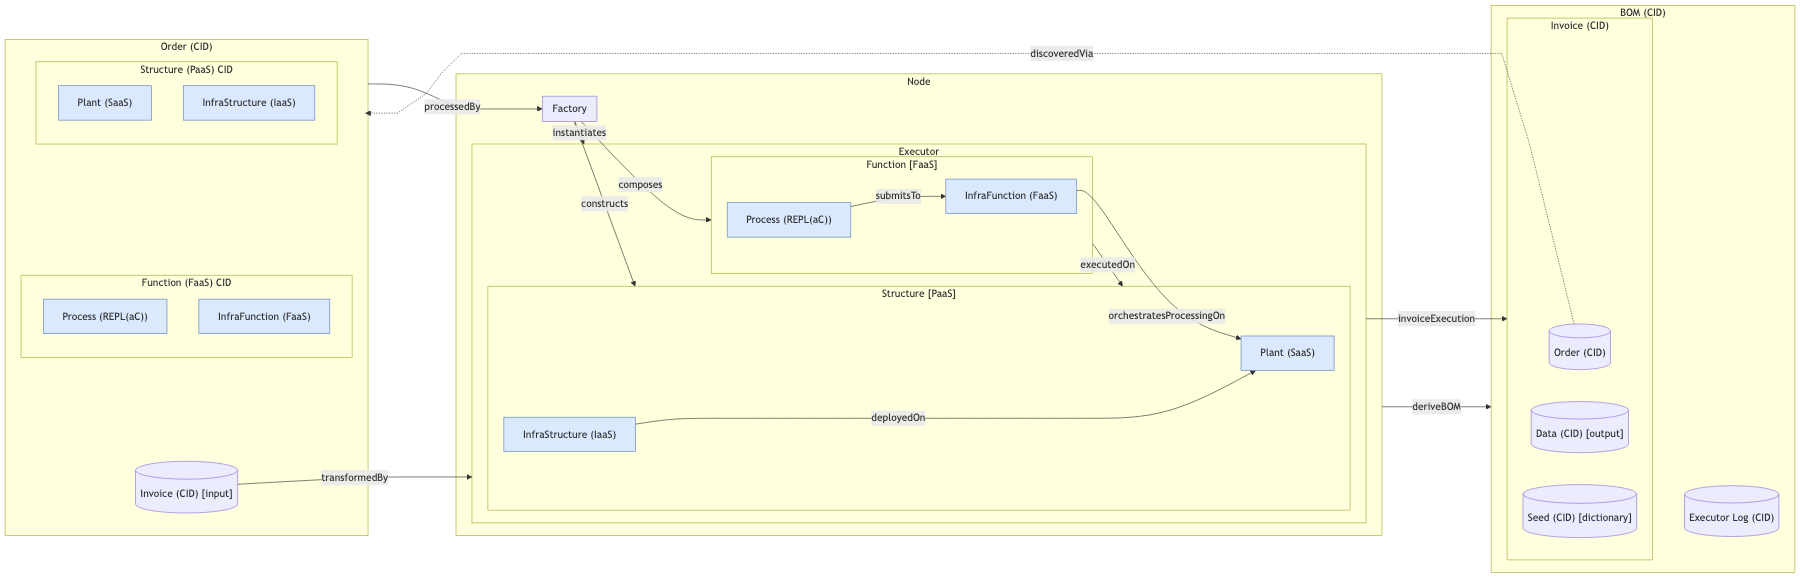
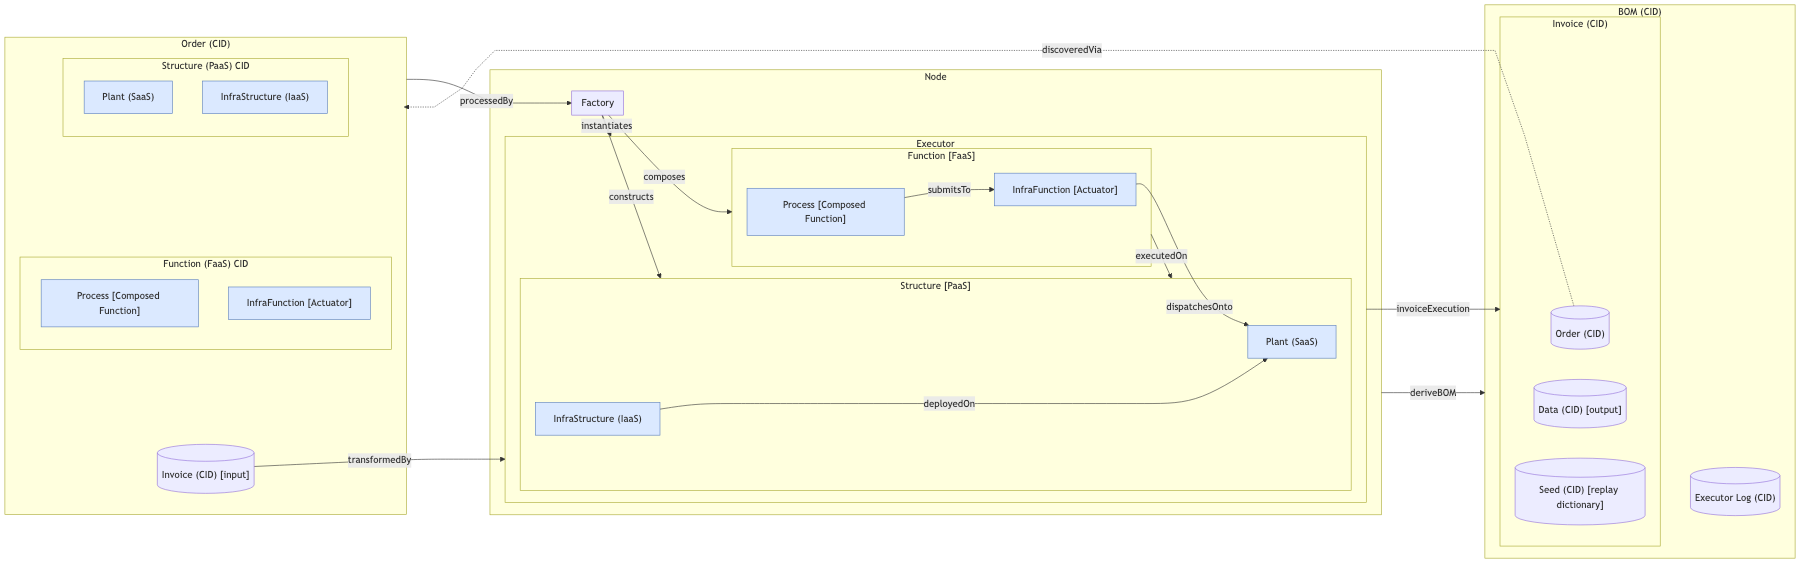
Document Composed Function and Actuator
docs(readme,design,NodeProductFlow,PLANTs,BOM,DEMO,INTEROP):
 rename Process [REPL(aC)] to Process [Composed Function] and
 InfraFunction [FaaS] to InfraFunction [Actuator]; clarify REPLaC UI;
docs(images): refresh NodeProductFlow.png

Changed region(s): [[0.0, 0.0, 1.0, 0.9964], [0.3733, 0.302, 0.6533, 0.4227], [0.3111, 0.302, 0.3733, 0.3623]]

diff --git a/docs/DESIGN.md b/docs/DESIGN.md
@@ -23,9 +23,9 @@ The Quantum's "smallest unit of architecture... with high functional cohesion" i
 
 - `order_cid` resolves to `{invoice_cid, function_cid, structure_cid}` - the Order's Input Invoice, Function (as Code), and Structure (as Code), each independently content-addressed.
 - `structure_cid` resolves to `{root_cid, plant_cid, infrastructure_cid}` - Structure (**PaaS** as **IaC**) is CID-ed as an apply-complete pairing: compose-root glue (`root_cid`: `main.tf` / providers / module wiring), the Plant (SaaS) it provisions (`plant_cid`), and the InfraStructure (IaaS) that provisions it (`infrastructure_cid`).
-- `function_cid` resolves to `{process_cid, infrafunction_cid, process_source_cid, infrafunction_source_cid}` - Function (FaaS) is CID-ed as a hybrid pairing: bind JSON for Process [REPL(aC)] (transport callables plus a Transfer Higher-Order Function [tHOF] — the input→output data transform) and the InfraFunction (FaaS) actuator, plus directory CIDs of the Process / InfraFunction source packages. Each slot leaf CID is named-bind JSON (`source_cid` / `module` / `qualname`) for stock public callables, or pickle bytes for REPL one-offs.
+- `function_cid` resolves to `{process_cid, infrafunction_cid, process_source_cid, infrafunction_source_cid}` - Function [FaaS] is CID-ed as a hybrid pairing: bind JSON for Process [Composed Function] (transport callables plus a Transfer Higher-Order Function [tHOF] — the input→output data transform) and InfraFunction [Actuator], plus directory CIDs of the Process / InfraFunction source packages. Each slot leaf CID is named-bind JSON (`source_cid` / `module` / `qualname`) for stock public callables, or pickle bytes for REPL one-offs. Orders are authored via the REPLaC Workflow UI of Function [FaaS] (Marimo in this demo).
 
-The **Factory** reconstitutes this Quantum at runtime with the same composition it was CID-ed with: it composes `Function` and constructs `Structure` from the Order's `function_cid`/`structure_cid`, then instantiates the **Executor** with them as its dependencies. Each in turn composes its own CID-ed sub-component the same way - `Structure` composes its `Plant` from its `InfraStructure`, and `Function` composes its `Processor` from its `InfraFunction` - so Function (FaaS) executes on Structure (PaaS) by InfraFunction (FaaS) dispatching the tHOF (`integrated_subproc`) submitted by Process [REPL(aC)] onto Plant (SaaS), while ingress / integration_cache / egress run as local transport around that dispatch, exactly as the Quantum's applied disciplines describe below. Composition stays on the Order CID graph (sequential Executor stages); interim Control-Feedback Loop feedback uses Invoice stage CIDs (`ingress_data_cid`, `integration_data_cid`, `data_cid`) until Seed is implemented. The Executor itself - not a layer above it - is what produces the resulting **Invoice CID**, so the whole Order-in/Invoice-out cycle stays within the one independently-deployable, functionally-cohesive unit the Quantum principle calls for. (* **[CID-level details](BOM.md)**, * **[Lineage-of-Provenance context](LineageOfProvenance.md)**)
+The **Factory** reconstitutes this Quantum at runtime with the same composition it was CID-ed with: it composes `Function` and constructs `Structure` from the Order's `function_cid`/`structure_cid`, then instantiates the **Executor** with them as its dependencies. Each in turn composes its own CID-ed sub-component the same way - `Structure` composes its `Plant` from its `InfraStructure`, and `Function` composes its `Processor` from its `InfraFunction` - so Function [FaaS] executes on Structure [PaaS] by InfraFunction [Actuator] dispatching the tHOF (`integrated_subproc`) submitted by Process [Composed Function] onto Plant [SaaS], while ingress / integration_cache / egress run as local transport around that dispatch, exactly as the Quantum's applied disciplines describe below. Composition stays on the Order CID graph (sequential Executor stages); interim Control-Feedback Loop feedback uses Invoice stage CIDs (`ingress_data_cid`, `integration_data_cid`, `data_cid`) until Seed is implemented. The Executor itself - not a layer above it - is what produces the resulting **Invoice CID**, so the whole Order-in/Invoice-out cycle stays within the one independently-deployable, functionally-cohesive unit the Quantum principle calls for. (* **[CID-level details](BOM.md)**, * **[Lineage-of-Provenance context](LineageOfProvenance.md)**)
 
 ### Collaborative value of CATs Architectural Quantum:
 The operation and maintenance of CATs’ Data Products on a Data Mesh can occur between independent teams that will 
@@ -38,14 +38,14 @@ and maintain the different portions of the entire Web2 cloud service model based
 * Applied discipline for **Functions (FaaS)**
   * **Data Science** involves exploratory data analysis (EDA), data cleaning and visualization, and 
   predictive modeling / machine learning to inform Control Plane decisions and strategies. 
-  * **Machine Learning Engineering** involves the development, training, performance optimizing, and deployment of machine learning models as a scalable **Integration** function composed in Process [REPL(aC)] and dispatched onto Plant by InfraFunction (FaaS). 
-  * **Data Analysis** involves evaluating performance of and implimenting the Process [REPL(aC)] using a data processing language and sheduling them for submition to the InfraFunction [FaaS] for execution.
+  * **Machine Learning Engineering** involves the development, training, performance optimizing, and deployment of machine learning models as a scalable **Integration** function composed in Process [Composed Function] and dispatched onto Plant by InfraFunction [Actuator]. 
+  * **Data Analysis** involves evaluating performance of and implimenting the Process [Composed Function] using a data processing language and sheduling them for submition to the InfraFunction [Actuator] for execution.
   * The CAT Order is updated with the inclusion of resulting mutated Functions (FaaS) for execution processed by CATs 
   Factory Client.
 * Applied discipline for **Structure (PaaS** as **IaC)**
   * **Data Platform / Cloud / Infrastructure Engineering** involves the design and IaC development, and automation of the 
   provisioning and management of Structure (PaaS) executing Function. This is accomplished using IaC to provision 
-  InfraStructure (IaaS) as the execution paradigm of the Plant (SaaS) as well as contributing to InfraFunctions’ 
-  (FaaS) execution configurations of Plant (SaaS) operations.
+  InfraStructure (IaaS) as the execution paradigm of the Plant (SaaS) as well as contributing to InfraFunction
+  [Actuator] execution configurations of Plant (SaaS) operations.
 
 ### [**Orginizational Value**](./ORG.md)

diff --git a/docs/NodeProductFlow.md b/docs/NodeProductFlow.md
@@ -8,19 +8,19 @@
 2. The "Node" consumes an "Order" containing an input "Invoice" of input data to be processed as well as the Architectural Quantum's functional domain components that process Invoiced data; The content of the Order CID to be processed by the Node's "Factory" consists of the following: (*)
    - **A.** the CID-ed input Invoice as is within `data/input/data/*`
    - **B.** the CID-ed Architectural Quantum's functional domain components:
-     - **a.** "Function [FaaS]" consists of "Process [REPL(aC)]" and "InfraFunction [FaaS]" as its dependency
-       - Function [FaaS] (as Code) is CID-ed for which the contents consist of CIDs for Process [REPL(aC)] and InfraFunction [FaaS]
-       - Process [REPL(aC)] is a *Read-Eval-Print Loop as Code* (such as a Marimo notebook UI) that composes and submits callables: transport **port** callables (ingress, integration_cache, egress — each receives Function-owned `TransportPort`) plus a Transfer Higher-Order Function / tHOF (`integrated_subproc` — Plant-agnostic `ComputePort.run_transfer`; this demo’s Structure wires `RayComputePort` in the job entrypoint). Process itself is the composer, not a tHOF; peering mutate is Structure TF (`ipfs_transport_peering` / `TransportContext.ensure_peered`), not Process heal. Compose with **named imports** of the Process public surface only (never `import *`).
+     - **a.** "Function [FaaS]" consists of "Process [Composed Function]" and "InfraFunction [Actuator]" as its dependency
+       - Function [FaaS] (as Code) is CID-ed for which the contents consist of CIDs for Process [Composed Function] and InfraFunction [Actuator]
+       - Process [Composed Function] is the composed callable graph (FaaS-composer analogue): transport **port** callables (ingress, integration_cache, egress — each receives Function-owned `TransportPort`) plus a Transfer Higher-Order Function / tHOF (`integrated_subproc` — Plant-agnostic `ComputePort.run_transfer`; this demo’s Structure wires `RayComputePort` in the job entrypoint). Process itself is the composition, not a tHOF and not the notebook UI; peering mutate is Structure TF (`ipfs_transport_peering` / `TransportContext.ensure_peered`), not Process heal. Orders are authored via the **REPLaC (REPL as Code) Workflow UI** of Function [FaaS] (this demo: Marimo). Compose with **named imports** of the Process public surface only (never `import *`).
      - **b.** "Structure [PaaS]" is Function's infrastructure dependency and consists of "Plant [SaaS]" and Plant's "InfraStructure [IaaS]" infrastructure dependency
        - Structure [PaaS] (as Code) is CID-ed for which the contents consist of Plant [SaaS] and InfraStructure [IaaS] CIDs
 3. The Node's "Factory" processes an Order to produce "Executor" of an Architectural Quantum by composing Function [FaaS], constructing Structure [PaaS], then instantiating Executors with Function [FaaS] & Structure [PaaS] as its dependencies / parameters
 4. The Executor is a composition of Architectural Quantum execution that executes and Invoices the ephemeral execution of the Architectural Quantum.
-   - **A.** the Executor executes the aforemention composition as a Function [FaaS] executing on Structure [PaaS]: transport port callables run locally with a narrowed `TransportPort`; InfraFunction [FaaS] (the actuator) dispatches the tHOF onto Plant via `PlantPort` (`Plant.plant_port()` → `RayPlantPort` for this demo) with scratch via `ObjectStore` / `JobHandle`; in-job entrypoint wires `ComputePort`
-   - **B.** the Executor Invoices the ephemeral execution of the Architectural Quantum by producing a CID-ed Invoice containing the original CID-ed Order, the CID-ed output Data (`data_cid`), interim stage CIDs (`ingress_data_cid`, `integration_data_cid`), and a (non-deterministic processing) Seed (dictionary for Process [REPL(aC)]) — **Seed is specified but not yet populated** (`seed_cid` remains null; tracked by [#187](https://github.com/DynamicalSystemsGroup/cats/issues/187)); stage CIDs on the Invoice are the interim feedback surface
+   - **A.** the Executor executes the aforemention composition as a Function [FaaS] executing on Structure [PaaS]: transport port callables run locally with a narrowed `TransportPort`; InfraFunction [Actuator] dispatches the tHOF onto Plant via `PlantPort` (`Plant.plant_port()` → `RayPlantPort` for this demo) with scratch via `ObjectStore` / `JobHandle`; in-job entrypoint wires `ComputePort`
+   - **B.** the Executor Invoices the ephemeral execution of the Architectural Quantum by producing a CID-ed Invoice containing the original CID-ed Order, the CID-ed output Data (`data_cid`), interim stage CIDs (`ingress_data_cid`, `integration_data_cid`), and a (non-deterministic processing) Seed (Function/Process replay dictionary) — **Seed is specified but not yet populated** (`seed_cid` remains null; tracked by [#187](https://github.com/DynamicalSystemsGroup/cats/issues/187)); stage CIDs on the Invoice are the interim feedback surface
 5. The Node produces a CID-ed BOM containing an CID-ed Invoice (with `structure_as_executed_cid` nesting observed Plant / ObjectStore state), CID-ed Executor execution "logs", and `node_uri` (*). Full Nest tree: [`BOM.md` CAT Node HTTP BOM response](BOM.md#cat-node-http-bom-response).
 
 ### Notes (*):
 
   - **2.** The Order is intended to be consumed from within a "BOM" hosted on a registry; i.e. - discovered via that BOM's "invoice.order_cid" - rather than supplied out-of-band; **this registry is not yet implemented**, such that the Node's `/cat/node/init` endpoint accepts the target `order_cid` directly as input today, standing in for the not-yet-built "look up a BOM on the registry, then consume its Order" step
-  - **4B.** Until Seed exists, compose on the Order CID graph and feedback via Invoice/BOM stage CIDs; when Seed lands, it holds the Process replay dictionary and Invoice keeps Order + output data + `seed_cid`
+  - **4B.** Until Seed exists, compose on the Order CID graph and feedback via Invoice/BOM stage CIDs; when Seed lands, it holds the Function/Process replay dictionary and Invoice keeps Order + output data + `seed_cid`
   - **5.** CIDs of BOMs are intended to be published to the registry (0c) for future Orders to be consumed from

diff --git a/docs/BOM.md b/docs/BOM.md
@@ -2,7 +2,7 @@
 
 Each of the Architectural Quantum's four components (Function, InfraFunction, Structure, InfraStructure) is content-addressed independently, then paired back together as a small JSON object so the Order records both halves under a single CID:
 
-- `order.function_cid` resolves to `{process_cid, infrafunction_cid, process_source_cid, infrafunction_source_cid}` — hybrid Function pairing. `process_cid` / `infrafunction_cid` are bind JSON maps of `*_subproc_cid` → **leaf CID** (still a single string per slot). Process [REPL(aC)] composes (`ingress_subproc_cid`, `integration_cache_subproc_cid`, `integrated_subproc_cid`, `egress_subproc_cid`); only `integrated_subproc_cid` is the Transfer Higher-Order Function (tHOF) — Plant-agnostic `ComputePort.run_transfer` (see [transfer function](https://en.wikipedia.org/wiki/Transfer_function)); ingress / integration_cache / egress are transport **port** callables that require Executor-wired `TransportPort`. `infrafunction_cid` bind JSON holds the actuator (`infrafunction_subproc_cid`). Each leaf CID is either **named-bind JSON** `{"source_cid","module","qualname"}` (stock public callables from `create_order_request` / `linkProcess`) or **pickle bytes** (REPL escape hatch for non-stock callables). `process_source_cid` / `infrafunction_source_cid` are whole-directory CIDs of `function/process/` and `function/infrafunction/`; named binds must pin those package CIDs. `getEnhancedBom()` materializes the source trees; Executor `resolve_subproc` imports named binds or unpickles. Recreate Orders created before source keys existed — `getEnhancedBom()` / `linkProcess()` / Executor fail loud if they are missing. Compose Orders with **named imports** of the Process public surface only (`ingress`, `egress`, `integration_cache`, `function_*`, `process_*` — see `process.__all__`); never `from data.input.function.process import *`.
+- `order.function_cid` resolves to `{process_cid, infrafunction_cid, process_source_cid, infrafunction_source_cid}` — hybrid Function pairing. `process_cid` / `infrafunction_cid` are bind JSON maps of `*_subproc_cid` → **leaf CID** (still a single string per slot). Process [Composed Function] holds (`ingress_subproc_cid`, `integration_cache_subproc_cid`, `integrated_subproc_cid`, `egress_subproc_cid`); only `integrated_subproc_cid` is the Transfer Higher-Order Function (tHOF) — Plant-agnostic `ComputePort.run_transfer` (see [transfer function](https://en.wikipedia.org/wiki/Transfer_function)); ingress / integration_cache / egress are transport **port** callables that require Executor-wired `TransportPort`. `infrafunction_cid` bind JSON holds InfraFunction [Actuator] (`infrafunction_subproc_cid`). Each leaf CID is either **named-bind JSON** `{"source_cid","module","qualname"}` (stock public callables from `create_order_request` / `linkProcess`) or **pickle bytes** (REPL escape hatch for non-stock callables). `process_source_cid` / `infrafunction_source_cid` are whole-directory CIDs of `function/process/` and `function/infrafunction/`; named binds must pin those package CIDs. `getEnhancedBom()` materializes the source trees; Executor `resolve_subproc` imports named binds or unpickles. Recreate Orders created before source keys existed — `getEnhancedBom()` / `linkProcess()` / Executor fail loud if they are missing. Compose Orders with **named imports** of the Process public surface only (`ingress`, `egress`, `integration_cache`, `function_*`, `process_*` — see `process.__all__`); never `from data.input.function.process import *`.
 - `order.structure_cid` resolves to `{root_cid, plant_cid, infrastructure_cid}` — apply-complete Structure pairing. `root_cid` is the directory CID of compose glue only (`main.tf`, `outputs.tf`, `.terraform.lock.hcl` — providers + `module "plant"` / `module "infrastructure"` wiring). `plant_cid` is the CID of the whole `plant/` Terraform directory (kind cluster + Helm releases, `plant_utils.py` / `RayPlantPort`, and Ray landing `ray_job_result_entrypoint.py` + `ray_compute_utils.py` / `RayComputePort` that constitute Plant, SaaS); `infrastructure_cid` is the CID of the whole `infrastructure/` Terraform directory (Docker Kubo transport + `transport_utils.py` / `TransportContext`, MinIO + `obj_store_utils.py` / `JobHandle`, host ContentStore helpers that constitute InfraStructure, IaaS). Recreate Orders created before `root_cid` existed — `getEnhancedBom()` fails loud if it is missing.
 
 Both are built in `create_order_request()` and unpacked back onto disk by `getEnhancedBom()` so the fetched Structure stays directly `terraform apply`-able from the Order alone (root files + `plant/` + `infrastructure/`) and Function source packages land under `function/process/` + `function/infrafunction/`. `root_cid`/`plant_cid`/`infrastructure_cid` and `process_source_cid`/`infrafunction_source_cid` are each whole-directory CIDs (via `cidDir()`) — `ipfs ls`-ing plant/infra lists that Terraform module's actual files (e.g. `main.tf`, `outputs.tf`, `variables.tf`, `plant_utils.py`, `ray_job_result_entrypoint.py`, `ray_compute_utils.py` for `plant_cid`; `main.tf`, `outputs.tf`, `minio_compose.yaml`, `ipfs_transport_compose.yaml`, `transport_utils.py`, `content_store_utils.py`, `obj_store_utils.py` for `infrastructure_cid`); `ipfs ls`-ing a Function source CID lists that package's Python modules. `process_cid`/`infrafunction_cid` remain CIDs of small JSON objects mapping slots to leaf CIDs. A real `function_cid` fetched via `ipfs cat` looks like:

diff --git a/docs/PLANTs.md b/docs/PLANTs.md
@@ -47,7 +47,7 @@ The CAT Node doesn't reduce to one single type from the "Heavy industry and engi
 | Layer                                                          | Type match                            |
 | -------------------------------------------------------------- | ------------------------------------- |
 | Factory (assembles the Executor from Order components)         | **Manufacturing Plant**               |
-| Function [FaaS] (Process [REPL(aC)] + InfraFunction [FaaS])    | **Plant (control theory)**            |
+| Function [FaaS] (Process [Composed Function] + InfraFunction [Actuator]) | **Plant (control theory)**     |
 | Structure [PaaS] (Plant [SaaS] + InfraStructure [IaaS])        | **Power Plant** (Power Station sense) |
 
 
@@ -74,11 +74,11 @@ Per `[NodeProductFlow.md](NodeProductFlow.md)` step 0B, the Architectural Quantu
 `Structure [PaaS]`. It isn't a single type; it's the *union* of the next two rows, since it's defined as
 Function's dependency on Structure, not a standalone facility:
 
-- **Function [FaaS]** (`Process [REPL(aC)]` + `InfraFunction [FaaS]`) -> **Plant (control theory)** as a whole -
-"the combination of process and actuator" is verbatim Function's own composition (Process [REPL(aC)] = the
-Read-Eval-Print Loop as Code that composes and submits transport/`ComputePort` callables plus a Plant-agnostic tHOF = the "process"; InfraFunction = the actuator dispatching that tHOF onto compute via `PlantPort`).
-  - `Process [REPL(aC)]` alone -> the **process** half of Plant (control theory)
-  - `InfraFunction [FaaS]` alone -> the **actuator** half of Plant (control theory)
+- **Function [FaaS]** (`Process [Composed Function]` + `InfraFunction [Actuator]`) -> **Plant (control theory)** as a whole -
+"the combination of process and actuator" is verbatim Function's own composition (Process [Composed Function] = the
+composed callable graph / FaaS-composer analogue: transport/`ComputePort` callables plus a Plant-agnostic tHOF = the "process"; InfraFunction [Actuator] = the actuator dispatching that tHOF onto compute via `PlantPort`). Orders are authored via the REPLaC Workflow UI of Function [FaaS] (Marimo in this demo).
+  - `Process [Composed Function]` alone -> the **process** half of Plant (control theory)
+  - `InfraFunction [Actuator]` alone -> the **actuator** half of Plant (control theory)
 - **Structure [PaaS]** (`Plant [SaaS]` + `InfraStructure [IaaS]`) -> **Power plant**, specifically the Power
 Station generation + Transmission & Distribution (T&D) model (per the caveat above).
   - `Plant [SaaS]` alone (this demo: Ray/KubeRay via `RayPlantPort`) -> the **generation** side of that Power Station model - not a
@@ -93,7 +93,7 @@ Station generation + Transmission & Distribution (T&D) model (per the caveat abo
 
 Doesn't fit any of the six categories itself. It doesn't generate, transmit, manufacture, or process anything on
 its own; it's the *runtime that operates* the other plants - dispatching Function [FaaS] onto Structure [PaaS]
-via InfraFunction orchestrating Plant [SaaS] (`[NodeProductFlow.md](NodeProductFlow.md)` step 2a). Structurally
+via InfraFunction [Actuator] dispatching onto Plant [SaaS] (`[NodeProductFlow.md](NodeProductFlow.md)` step 2a). Structurally
 it's closer to a plant *operator/control-room process* than to a plant itself - it's the thing standing between
 the Manufacturing-plant output (a composed Function+Structure pair) and those components' own actual execution.
 
@@ -105,8 +105,8 @@ the Manufacturing-plant output (a composed Function+Structure pair) and those co
 | CAT Node (whole)      | ✓ (via Function)       | ✓ (via Factory)     | -              | ✓ (via Structure)   | -              | -               |
 | Factory               | -                      | **✓**               | -              | -                   | -              | -               |
 | Architectural Quantum | ✓ (Function half)      | -                   | -              | ✓ (Structure half)  | -              | -               |
-| Process [REPL(aC)]    | ✓ ("process" half)     | -                   | -              | -                   | -              | -               |
-| InfraFunction [FaaS]  | ✓ ("actuator" half)    | -                   | -              | -                   | -              | -               |
+| Process [Composed Function] | ✓ ("process" half) | -                   | -              | -                   | -              | -               |
+| InfraFunction [Actuator] | ✓ ("actuator" half) | -                   | -              | -                   | -              | -               |
 | Structure [PaaS]      | -                      | -                   | -              | **✓**               | -              | -               |
 | Plant [SaaS]          | -                      | -                   | -              | ✓ (generation half) | -              | -               |
 | InfraStructure [IaaS] | -                      | -                   | **✓**          | ✓ (Transmission & Distribution (T&D) half) | -              | -               |

diff --git a/README.md b/README.md
@@ -115,13 +115,13 @@ CAT Kernel
 
 #### Quantum Architecture Description as a [Minimal Federated Operating Model](https://www.starburst.io/blog/data-mesh-book-bulletin-principle-of-federated-computational-governance/)
 
-- **Function [FaaS]** is a Function-as-a-Service for scalable Data Processing and analytics whose **Process [REPL(aC)]** composes and submits transport callables plus a Transfer Higher-Order Function (tHOF) for **InfraFunction [FaaS]** to dispatch. *Functions* are deployed on **Structure [PaaS]**; mutating either *Process* or *InfraFunction* updates the CAT **Order** in alignment with CATs *Architectural Quantum’s* Functionality
-  - **Process [REPL(aC)]** is a *Read-Eval-Print Loop as Code* (such as a Marimo notebook UI, e.g. `[cats_demo.py](cats_demo.py)`) that composes **ingress / integration_cache / egress** (transport) and `**integrated_subproc`** — the tHOF, i.e. the input→output data transform ([transfer function](https://en.wikipedia.org/wiki/Transfer_function)), often higher-order because it applies a batch function (e.g. via Ray `map_batches`). Process is the composer/submitter, not itself a tHOF. Mutating a ***Function's* Process [REPL(aC)]** composition produces a new **Order** whose `function_cid` reflects that update, for the Node's Factory to process on the next execution (*)
-  - **InfraFunction [FaaS]** is the actuator / Data Processing Orchestrator that receives the tHOF **Process [REPL(aC)]** submits and dispatches it onto the Plant (SaaS); transport callables run locally around that dispatch, not as Plant jobs
-    - Mutating InfraFunction (FaaS)'s dispatch configuration produces a new Order whose updated `function_cid` carries the updated actuator, alongside any Process-composed callable CIDs and any resulting `structure_cid` update reflecting the **Plant [SaaS]** it now targets (*)
+- **Function [FaaS]** is a Function-as-a-Service for scalable Data Processing and analytics: **Process [Composed Function]** + **InfraFunction [Actuator]**, authored via the **REPLaC (REPL as Code) Workflow UI** of Function [FaaS] (this demo: Marimo, e.g. [`cats_demo.py`](cats_demo.py)). *Functions* are deployed on **Structure [PaaS]**; mutating either *Process* or *InfraFunction* updates the CAT **Order** in alignment with CATs *Architectural Quantum’s* Functionality
+  - **Process [Composed Function]** is the composed callable graph (FaaS-composer analogue): **ingress / integration_cache / egress** (transport) plus `**integrated_subproc`** — the tHOF, i.e. the input→output data transform ([transfer function](https://en.wikipedia.org/wiki/Transfer_function)), often higher-order because it applies a batch function (e.g. via Ray `map_batches`). Process is the composition, not the notebook UI and not itself a tHOF. Mutating a ***Function's* Process [Composed Function]** produces a new **Order** whose `function_cid` reflects that update, for the Node's Factory to process on the next execution (*)
+  - **InfraFunction [Actuator]** receives the tHOF **Process [Composed Function]** submits and dispatches it onto the Plant (SaaS); transport callables run locally around that dispatch, not as Plant jobs
+    - Mutating InfraFunction [Actuator]'s dispatch configuration produces a new Order whose updated `function_cid` carries the updated actuator, alongside any Process-composed callable CIDs and any resulting `structure_cid` update reflecting the **Plant [SaaS]** it now targets (*)
 - **Structure [PaaS(as IaC)]** provisions and maintains the **Plant [SaaS]** as **Function’s [FaaS]** scalable execution environment. 
   - **Plant [SaaS]** is composed from **InfraStructure [IaaS]** as **Structure's** dynamically scaled execution environment of 
-  **Function [FaaS]** — the runtime onto which **InfraFunction [FaaS]** dispatches the tHOF (`integrated_subproc`) submitted by **Process [REPL(aC)]**
+  **Function [FaaS]** — the runtime onto which **InfraFunction [Actuator]** dispatches the tHOF (`integrated_subproc`) submitted by **Process [Composed Function]**
   - **InfraStructure (IaaS)** provisions and maintains the dynamically scaled infrastructure that composes a Plant (SaaS).
     - The CAT Order is updated in alignment with event-driven functionality and operations: mutating InfraStructure 
     (IaaS)'s provisioning produces a new Order with an updated `structure_cid` (*)

diff --git a/docs/DEMO.md b/docs/DEMO.md
@@ -45,7 +45,7 @@ make node-stop
 
 ##### 4. Establish Data (CAT) Mesh *in Terminal B*: [Demo](../cats_demo.py)
 
-Execute CATs on a single-node Mesh via Marimo notebook — this is Process [REPL(aC)]: a Read-Eval-Print Loop as Code that composes and submits transport callables plus a Transfer Higher-Order Function (tHOF, `integrated_subproc`) for InfraFunction [FaaS] to dispatch onto Plant [SaaS]. Function sources are packaged as `data/input/function/process/` and `data/input/function/infrafunction/` (import the package public surfaces). Compose Orders with **named imports** of the Process public surface only (`ingress`, `egress`, `integration_cache`, `process_*`, … — see `process.__all__`); never `from data.input.function.process import *`. Stock surfaces are Order-bound as named-bind JSON leaves (`source_cid` / `module` / `qualname`); non-stock REPL callables still pickle. Across runs, `linkProcess` mutates Function lineage, `linkStructure` mutates Structure lineage, and `linkOrder` mutates Function and/or Structure in one lineage step (all chain prior Invoice `data_cid`; a-la-carte helpers remain). Recreate Orders after Function module-path or bind-shape changes.
+Execute CATs on a single-node Mesh via Marimo — the **REPLaC (REPL as Code) Workflow UI** of Function [FaaS], used to compose Process [Composed Function] (transport callables plus a Transfer Higher-Order Function / tHOF, `integrated_subproc`) for InfraFunction [Actuator] to dispatch onto Plant [SaaS]. Function sources are packaged as `data/input/function/process/` and `data/input/function/infrafunction/` (import the package public surfaces). Compose Orders with **named imports** of the Process public surface only (`ingress`, `egress`, `integration_cache`, `process_*`, … — see `process.__all__`); never `from data.input.function.process import *`. Stock surfaces are Order-bound as named-bind JSON leaves (`source_cid` / `module` / `qualname`); non-stock REPL callables still pickle. Across runs, `linkProcess` mutates Function lineage, `linkStructure` mutates Structure lineage, and `linkOrder` mutates Function and/or Structure in one lineage step (all chain prior Invoice `data_cid`; a-la-carte helpers remain). Recreate Orders after Function module-path or bind-shape changes.
 
 ```bash
 uv run marimo edit cats_demo.py

diff --git a/docs/INTEROP.md b/docs/INTEROP.md
@@ -25,7 +25,7 @@ flowchart TB
   end
   subgraph aq [Architectural_Quantum]
     subgraph function [Function_FaaS]
-      Process[Process_REPL]
+      Process[Process_FaaS_Composer]
       InfraFn[InfraFunction]
     end
     subgraph structure [Structure_PaaS]
@@ -70,8 +70,8 @@ Process public surface is locked by `process.__all__` and
 
 | Sub-component | Contract | Status | Prove plan |
 |---------------|----------|--------|------------|
-| **Process [REPL(aC)]** | `TransportPort` + `ComputePort`; no Ray; public `__all__` | Contract + demo (Ray adapter behind ComputePort) | Unchanged Process modules against second ComputePort adapter (**2f**); keep `TYPE_CHECKING`-only `data.*` imports |
-| **InfraFunction [FaaS]** | `PlantPort` + `JobHandle`; no Job Submission client | Contract + demo (RayPlantPort) | Unchanged `infrafunction_subproc` against second PlantPort + scratch landing (**2f**) |
+| **Process [Composed Function]** | `TransportPort` + `ComputePort`; no Ray; public `__all__` | Contract + demo (Ray adapter behind ComputePort) | Unchanged Process modules against second ComputePort adapter (**2f**); keep `TYPE_CHECKING`-only `data.*` imports |
+| **InfraFunction [Actuator]** | `PlantPort` + `JobHandle`; no Job Submission client | Contract + demo (RayPlantPort) | Unchanged `infrafunction_subproc` against second PlantPort + scratch landing (**2f**) |
 
 ### Structure [PaaS]
 
